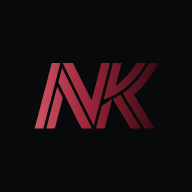
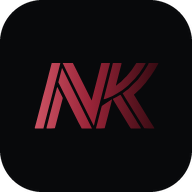
Add files via upload

diff --git a/sw.js b/sw.js
@@ -1,6 +1,6 @@
 // NurvKor service worker — puja VERSION a cada publicació per forçar l'actualització
-const VERSION = 'nurvkor-v1';
-const SHELL = ['./', './index.html', './manifest.webmanifest', './icon-192.png', './icon-512.png', './apple-touch-icon.png'];
+const VERSION = 'nurvkor-v2';
+const SHELL = ['./', './index.html', './manifest.webmanifest', './icon-192.png', './icon-512.png', './icon-maskable-512.png', './icon-monochrome-512.png', './apple-touch-icon.png'];
 const CDN_HOSTS = ['cdn.tailwindcss.com', 'cdn.jsdelivr.net', 'unpkg.com', 'fonts.googleapis.com', 'fonts.gstatic.com'];
 
 self.addEventListener('install', e => {
